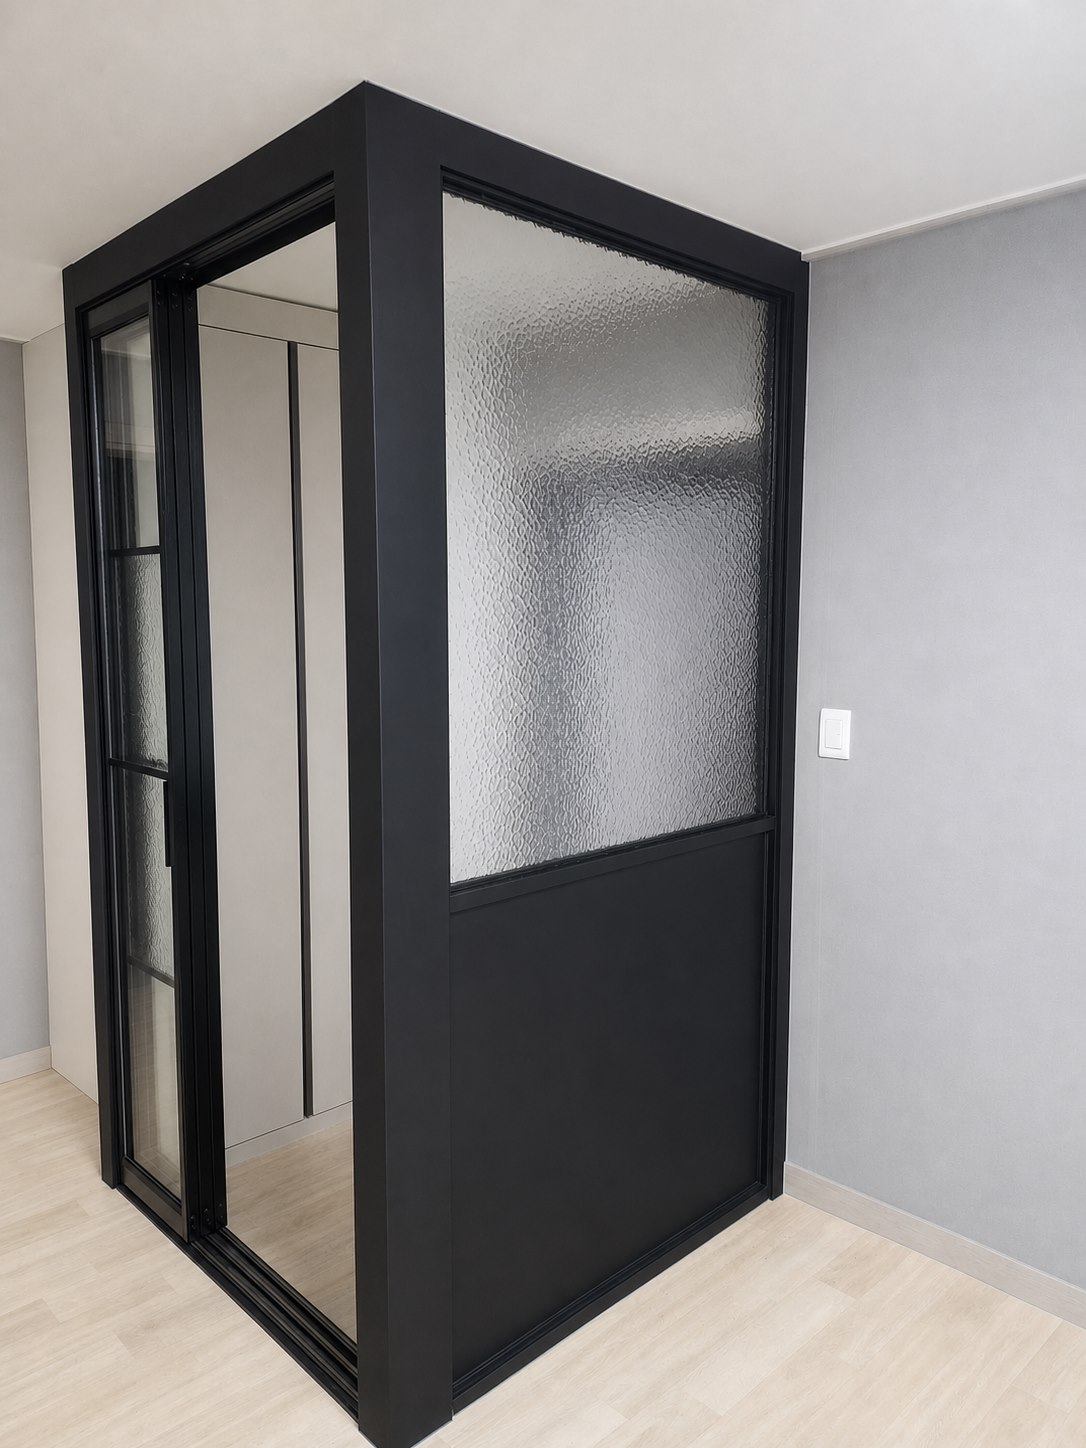
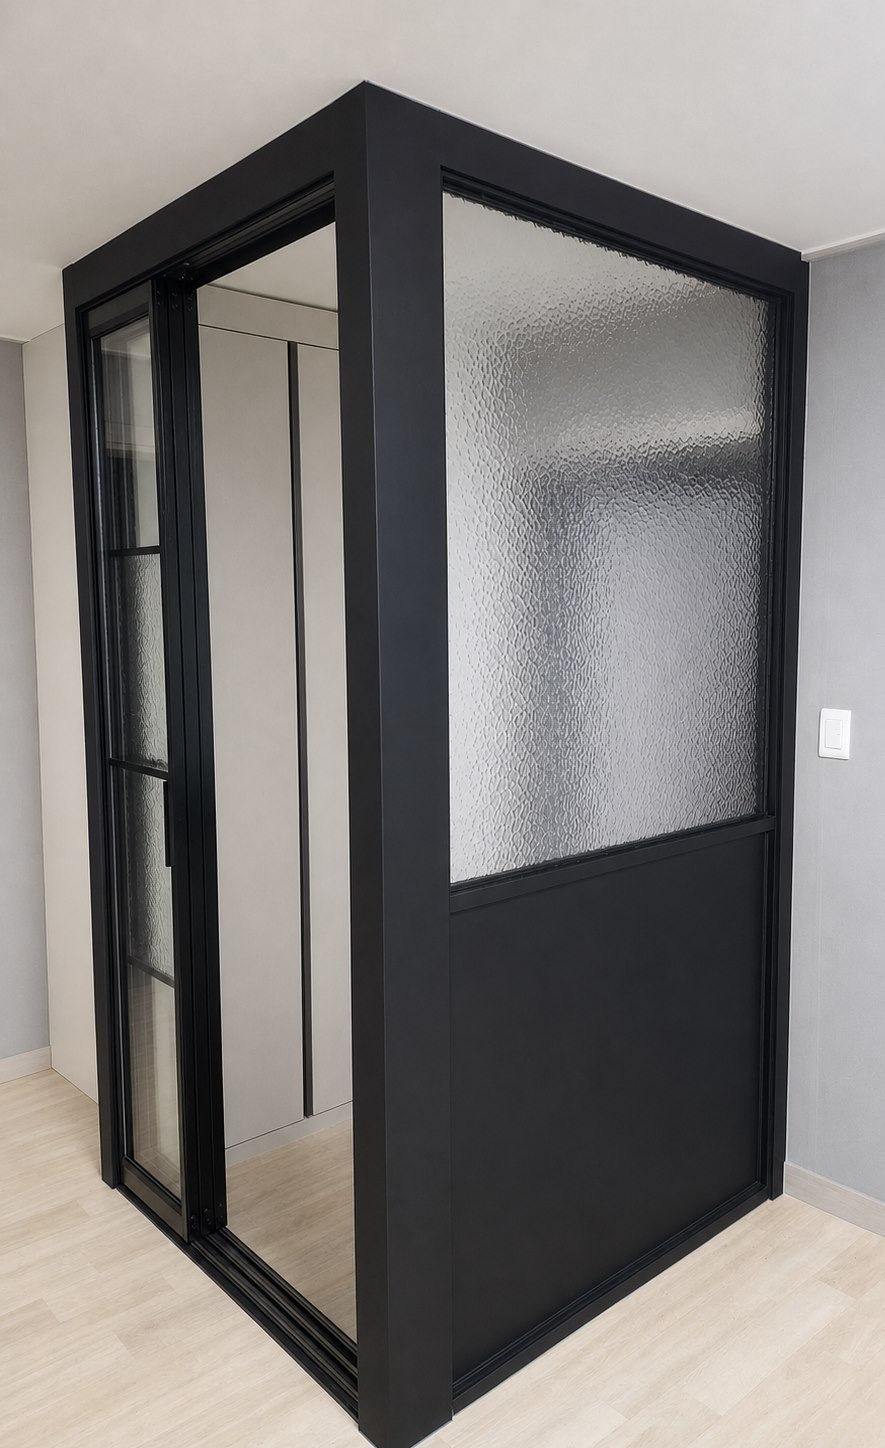
현관 파티션 예시 사진 재크롭 — 제품이 왼쪽으로 치우쳐 보이던 문제 수정
우측 여백(약 296px)이 좌측 여백(약 90px)보다 훨씬 넓어 제품이 좌측으로
쏠려 보였음. 우측 여백을 좌측과 같은 폭으로 잘라내 제품이 중앙에
오도록 재크롭(1086×1448 → 885×1448), width 속성도 함께 갱신.

diff --git a/configurator.js b/configurator.js
@@ -362,7 +362,7 @@
                 '<figcaption><strong>알파룸 구분용 파티션</strong><span>화이트 중문과 유리 파티션으로 생활공간과 알파룸을 분리한 사례입니다.</span></figcaption>' +
                 '</figure>' +
                 '<figure class="partition-example-card">' +
-                '<img src="assets/partition-example-entry-black.jpg" alt="블랙 중문과 모루유리 파티션으로 현관을 구분한 설치 사례" width="1086" height="1448">' +
+                '<img src="assets/partition-example-entry-black.jpg" alt="블랙 중문과 모루유리 파티션으로 현관을 구분한 설치 사례" width="885" height="1448">' +
                 '<figcaption><strong>현관 파티션</strong><span>블랙 프레임과 모루유리로 현관 영역을 구분한 사례입니다.</span></figcaption>' +
                 '</figure>' +
                 '</div>';
